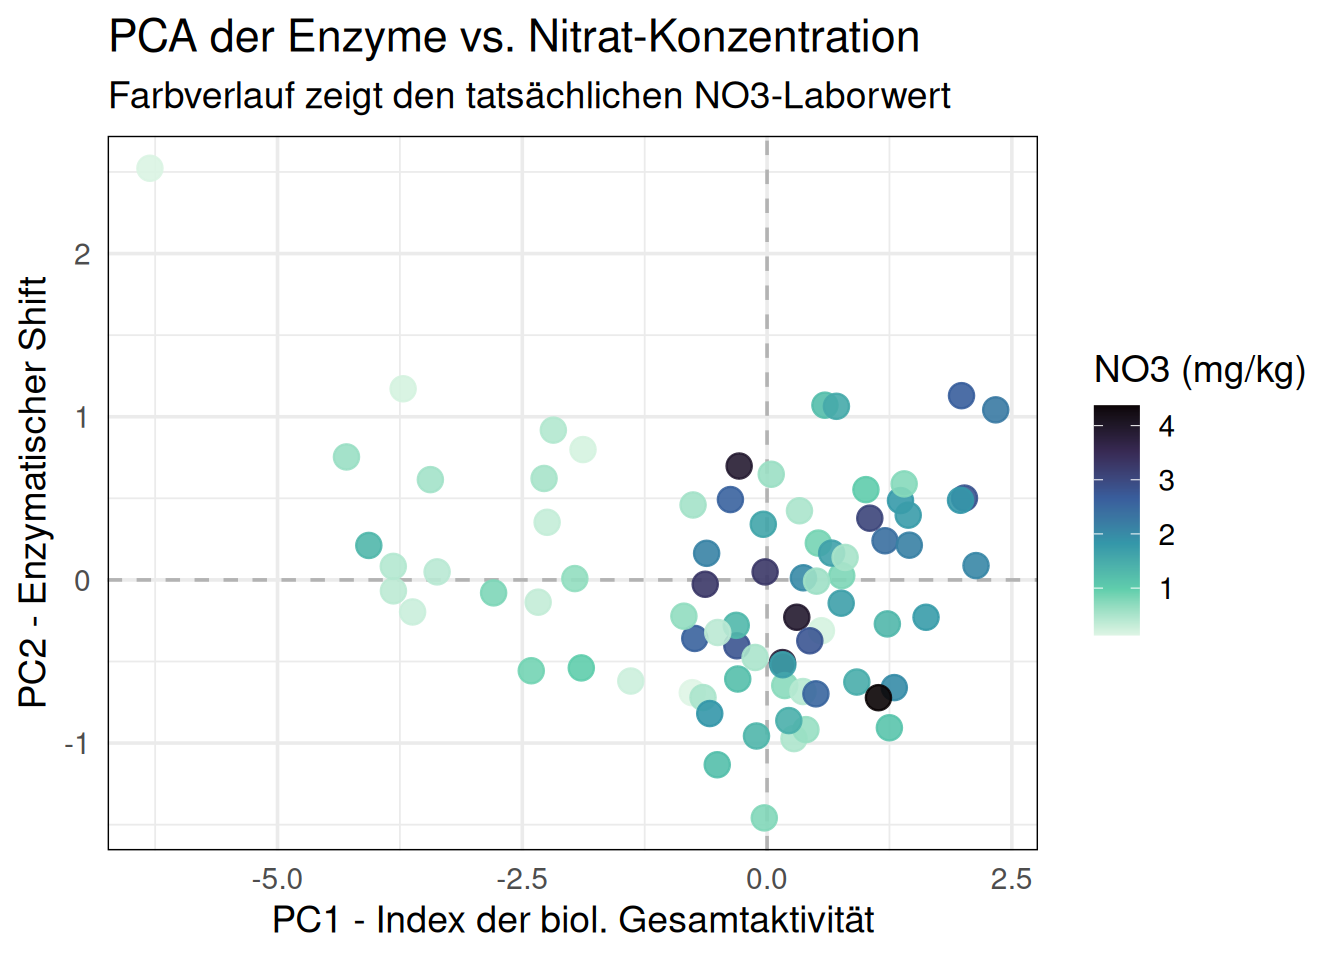
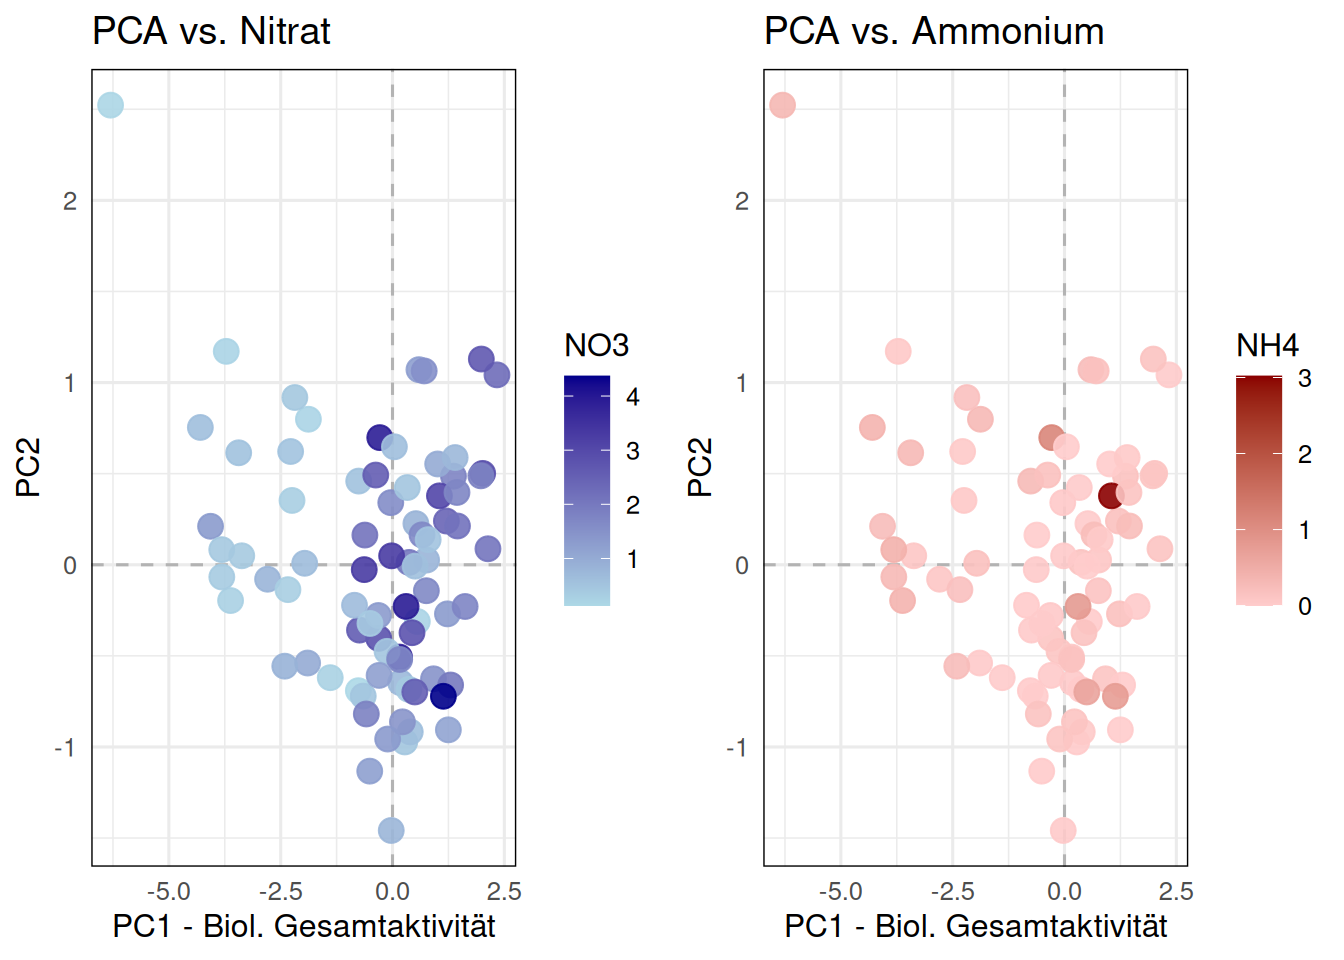
Github CD/CI

diff --git a/DEMO/DEMO.html b/DEMO/DEMO.html
@@ -64,14 +64,16 @@ ul.task-list li input[type="checkbox"] {
 </header>
 
 
-<section id="versuchsbeschreibung" class="level1">
-<h1>1. Versuchsbeschreibung</h1>
-<p>Der Langzeitversuch DEMO untersucht seit 1989 die Auswirkungen unterschiedlicher organischer und mineralischer Düngungsstrategien auf die Bodenfruchtbarkeit und den Ertrag.</p>
-<p>In der aktuellen Kampagne (2025) prüfen wir mithilfe der Digit Soil Sensoren, ob die enzymatische Aktivität (EEA) im Boden als robuster Proxy für die Stickstoffmineralisierung (Nmin) und das allgemeine biologische Ertragspotenzial herangezogen werden kann.</p>
+<section id="hintergrund-und-methodik" class="level1">
+<h1>1. Hintergrund und Methodik</h1>
+<p>Der Langzeitversuch DEMO untersucht seit 1989 die Auswirkungen unterschiedlicher organischer und mineralischer Düngungsstrategien auf die Bodenfruchtbarkeit und das Ertragspotenzial.</p>
+<p>Die agronomische Herausforderung besteht darin, dass die reine Bestimmung der mineralischen Stickstofffraktionen (Nmin: Ammonium und Nitrat) im Labor oft nur eine statische Momentaufnahme darstellt. In der aktuellen Kampagne (2025) evaluieren wir daher den Einsatz der Digit Soil Sensoren. Diese messen die enzymatische Aktivität (EEA) direkt im Boden und sollen als robuster Proxy für das kontinuierliche Mineralisierungspotenzial der Bodenbiologie dienen.</p>
+<p>Die Datenaufbereitung für diese Analyse berücksichtigt bewusst die räumlichen Replikate (Proben A und B) innerhalb der Parzellen, um die oft enorme mikrobielle Heterogenität des Bodens (z.B. durch lokale Hotspots organischer Substanz) realitätsnah abzubilden.</p>
 </section>
 <section id="explorative-datenanalyse-nmin-pro-verfahren" class="level1">
 <h1>2. Explorative Datenanalyse: Nmin pro Verfahren</h1>
-<p>Bevor wir die Sensordaten (Enzyme) betrachten, verschaffen wir uns einen Überblick über die Referenzwerte aus dem Labor. Wie verteilen sich Ammonium (NH4) und Nitrat (NO3) in den unterschiedlichen Düngungsverfahren?</p>
+<p>Der erste analytische Schritt gilt der Etablierung unserer agronomischen Baseline. Die klassische Laboranalyse liefert uns die Konzentrationen von Ammonium (NH4) und Nitrat (NO3).</p>
+<p>Wir betrachten die Verteilung dieser Nährstoffe aufgeteilt nach den etablierten Düngungsverfahren. Boxplots sind hierfür das Mittel der Wahl, da sie nicht nur den Median aufzeigen, sondern auch die Streuung und eventuelle Extremwerte (Ausreißer) innerhalb einer Behandlungsgruppe sichtbar machen. Eine hohe Streuung innerhalb eines Verfahrens ist in Feldversuchen oft ein Indikator für räumliche Bodenunterschiede oder ungleichmäßige Mineralisierungsschübe.</p>
 <div class="cell">
 <div class="cell-output-display">
 <div>
@@ -82,9 +84,10 @@ ul.task-list li input[type="checkbox"] {
 </div>
 </div>
 </section>
-<section id="explorative-datenanalyse-enzymaktivität-pro-verfahren" class="level1">
-<h1>3. Explorative Datenanalyse: Enzymaktivität pro Verfahren</h1>
-<p>Analog zu den Laborwerten betrachten wir nun die Signale der Digit Soil Sensoren. Zeigen die fünf gemessenen Enzyme (LAP, NAG, GLS, MUP, MUX) ebenfalls deutliche Unterschiede zwischen den Düngungsstrategien?</p>
+<section id="sensor-signale-enzymatische-aktivität-eea" class="level1">
+<h1>3. Sensor-Signale: Enzymatische Aktivität (EEA)</h1>
+<p>Analog zu den Nmin-Werten analysieren wir nun die Rohsignale der fünf Digit Soil Sensoren (LAP, NAG, GLS, MUP, MUX).</p>
+<p>Während Nmin das Endprodukt der Mineralisierung darstellt, messen diese Enzyme die Rate der Umsetzungsprozesse. Beispielsweise spiegeln LAP und NAG den Stickstoffkreislauf wider, während GLS für den Kohlenstoffabbau steht. Die zentrale Fragestellung in diesem Schritt ist: Weisen die Sensordaten eine ähnliche Sensitivität gegenüber den Düngungsverfahren auf wie die klassischen Laborwerte? Wenn die Boxplots der Enzyme ähnliche relative Muster aufweisen wie die Nmin-Plots (z.B. Erhöhung bei organischen Verfahren wie “MIST”), bestätigt dies die Funktionsfähigkeit der Sensorik unter Feldbedingungen.</p>
 <div class="cell">
 <div class="cell-output-display">
 <div>
@@ -95,10 +98,14 @@ ul.task-list li input[type="checkbox"] {
 </div>
 </div>
 </section>
-<section id="zusammenhänge-korrelations-heatmap" class="level1">
-<h1>4. Zusammenhänge: Korrelations-Heatmap</h1>
-<p>Um zu verstehen, wie die biologischen Prozesse im Boden gekoppelt sind, betrachten wir die Korrelationen zwischen allen Enzymen und den Nmin-Werten. Da Bodendaten oft Ausreißer haben und nicht immer perfekt linear sind, verwenden wir hier die robuste Spearman-Rangkorrelation.</p>
-<p>Dunkelblaue Felder zeigen starke positive Zusammenhänge (z.B. wenn Enzym A hoch ist, ist auch Enzym B hoch).</p>
+<section id="systemische-kopplung-korrelationsanalyse" class="level1">
+<h1>4. Systemische Kopplung: Korrelationsanalyse</h1>
+<p>Um die biologische Validität der Sensoren zu prüfen, untersuchen wir die Zusammenhänge der Variablen untereinander. Da enzymatische Reaktionen biologischen Sättigungskurven unterliegen und nicht zwingend perfekt linear verlaufen, verwenden wir die robuste Spearman-Rangkorrelation.</p>
+<p>In der folgenden Heatmap suchen wir nach zwei Schlüsselmustern:</p>
+<ol type="1">
+<li><p>Multikollinearität der Enzyme: Eine starke positive Korrelation (Dunkelblau, R² &gt; 0.6) der Enzyme untereinander ist agronomisch zu erwarten, da ein aktives Bodenleben in der Regel alle Stoffkreisläufe (C, N, P) simultan hochfährt.</p></li>
+<li><p>Kopplung an Nmin: Eine signifikante Korrelation zwischen den N-spezifischen Enzymen (insbesondere NAG/LAP) und den Nmin-Laborwerten (NH4/NO3) ist der direkte Indikator dafür, dass der Sensor das tatsächliche Nachlieferungsvermögen des Bodens abbildet.</p></li>
+</ol>
 <div class="cell">
 <div class="cell-output-display">
 <div>
@@ -109,10 +116,11 @@ ul.task-list li input[type="checkbox"] {
 </div>
 </div>
 </section>
-<section id="biologisches-profil-robuste-pca" class="level1">
-<h1>5. Biologisches Profil (Robuste PCA)</h1>
-<p>Da die Enzymaktivitäten stark miteinander korrelieren (Multikollinearität) und die Bodendaten natürliche, extreme Ausreißer aufweisen, ist eine Dimensionsreduktion zwingend erforderlich.</p>
-<p>Wir verwenden eine robuste Hauptkomponentenanalyse (rPCA nach Hubert). Sie bündelt die 5 Enzym-Variablen auf zwei Hauptachsen, ohne sich von einzelnen Messfehlern oder lokalen biologischen “Hotspots” verzerren zu lassen. Die erste Achse (PC1) kann dabei als robuster Index der biologischen Gesamtaktivität interpretiert werden.</p>
+<section id="biologisches-profil-und-dimensionsreduktion" class="level1">
+<h1>5. Biologisches Profil und Dimensionsreduktion</h1>
+<p>Die vorherige Heatmap zeigt oft starke Interkorrelationen zwischen den fünf gemessenen Enzymen. Um diese Komplexität für weitere Auswertungen zu reduzieren und das “Rauschen” von überlappenden Signalen zu minimieren, führen wir eine robuste Hauptkomponentenanalyse (rPCA nach Hubert) durch.</p>
+<p>Im Gegensatz zu einer klassischen PCA ist dieser Algorithmus unempfindlich gegenüber extremen Ausreißern, wie sie im Boden durch lokale Hotspots unweigerlich entstehen. Die PCA ist ein unüberwachtes Verfahren (Unsupervised Learning) – der Algorithmus kennt die Düngungsverfahren nicht, sondern sucht rein nach den stärksten Varianzmustern in der Bodenbiologie.</p>
+<p>Die erste Hauptkomponente (PC1) bündelt die gemeinsame Varianz der Sensoren und dient als Index der biologischen Gesamtaktivität. Wir visualisieren diese PCA und färben die Messpunkte im Nachhinein nach den Düngungsverfahren ein. Ein starker Overlap der Ellipsen bedeutet, dass die natürliche räumliche Bodenheterogenität in diesem Datensatz den makroskopischen Treatment-Effekt der Düngung überlagert.</p>
 <div class="cell">
 <div class="cell-output-display">
 <div>
@@ -131,6 +139,11 @@ ul.task-list li input[type="checkbox"] {
 </div>
 </div>
 </div>
+</section>
+<section id="zusammenfassung-und-ausblick" class="level1">
+<h1>6. Zusammenfassung und Ausblick</h1>
+<p>Die explorative Datenanalyse des Jahres 2025 zeigt die Leistungsfähigkeit der Digit Soil Sensoren unter realen Feldbedingungen auf. Die Messungen offenbaren eine erhebliche räumliche Varianz auf Ebene der Replikate (Probe A vs.&nbsp;B), welche die natürliche Komplexität des Bodenmikrobioms widerspiegelt.</p>
+<p>Nächste methodische Schritte: Da die einfache explorative Analyse (PCA) zeigt, dass räumliche Hintergrundeffekte (Noise) stark ausgeprägt sind, ist der Einsatz einfacher linearer Modelle zur Ertragsvorhersage nicht zielführend. Die finale agronomische Auswertung wird sich daher auf Linear Mixed-Effects Models (LMM) stützen. Durch die Integration von Parzellennummern und Messdaten als Zufallseffekte (Random Effects) können wir die räumlich-zeitliche Varianz mathematisch isolieren und den reinen Einfluss der enzymatischen Aktivität auf den finalen Pflanzenertrag bzw. Nährstoffentzug präzise quantifizieren.</p>
 </section>
 
 </main>
